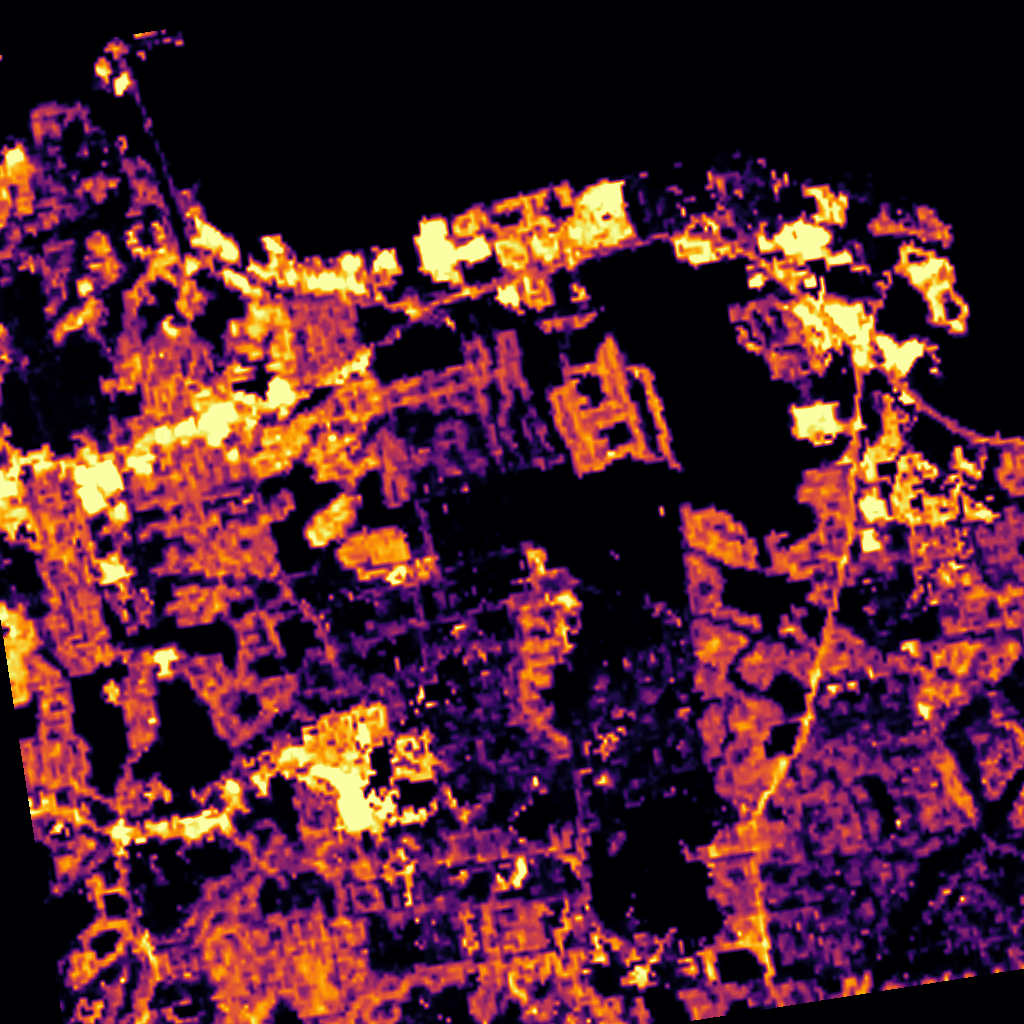
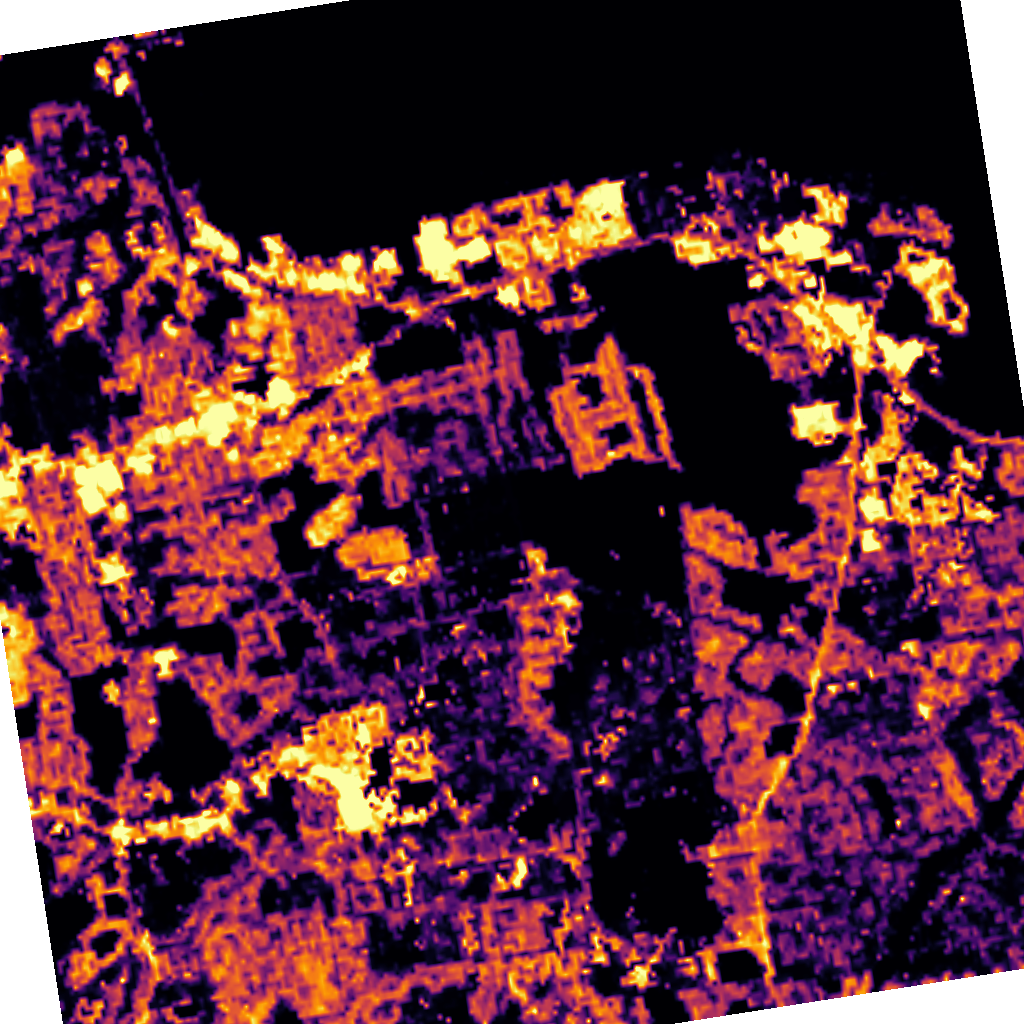
hydro: cover the domain with imagery, and stop painting its gaps black
The aerial drape was 23 % opaque black. Two independent causes, both of which
also cost the segmentation ground it should have seen.

export_overlay reprojected into a zero-filled destination, and zero is a legal
pixel value in every raster here, so "no data reached this pixel" and "this
pixel is black" were indistinguishable. The single-band branch had been fixed
for exactly this and carries a comment about it; the RGB branch never was. The
destination is NaN-filled now and the RGB branch writes RGBA, so uncovered
ground shows the terrain through instead of a black wall. The impervious
overlay turns out to have had 4.3 % of the same problem, below the threshold of
noticing.

fetch.naip sized its mosaic to site.bbox(). The modelled domain is the DEM,
which is the axis-aligned Albers box of that lat/lon request and ~14 % wider
per side; NAIP then ships in UTM, ~8.8 deg rotated from Albers, so the imagery
rectangle could not reach the domain's corners however the numbers were
squared up. It now covers the DEM's own footprint.

Covering a 1.70x larger box at NAIP's native resolution was not shippable: the
2023 survey is 0.3 m, and the merge peaked at 4.8 GB and drove this machine out
of memory. So NAIP_RES_M pins the mosaic at 0.6 m. Nothing downstream wanted
finer -- the drape is downsampled to 256 px and SAM3 tiles by pixel count, so
0.3 m only quadrupled the tiles -- and resampling during the merge is what makes
[…]

diff --git a/models/hydro/fetch.py b/models/hydro/fetch.py
@@ -47,6 +47,17 @@ perfectly good response and silently write a fallback table -- which is the exac
 the provenance field exists to catch.
 """
 
+NAIP_RES_M = 0.6
+"""Ground resolution [m] the NAIP mosaic is built at, PINNED rather than inherited.
+
+NAIP's native resolution improves by survey year -- 0.6 m over this site in 2021, 0.3 m in
+2023 -- so taking whatever the latest year flew makes the fetch cost, and every downstream
+raster's size, drift with the calendar. Nothing here benefits from finer: the viewer drape is
+downsampled to 256 px and the segmentation tiles by pixel count, so 0.3 m only quadruples the
+tiles. Pinning it also keeps this the cheapest thing that covers the domain -- resampling to
+0.6 m during the merge is what makes covering the DEM's full footprint affordable at all.
+"""
+
 HORTON_K_BY_TEXTURE = {
     "sand": 1.5, "loamy sand": 1.8, "sandy loam": 2.0, "loam": 2.5, "silt loam": 3.0,
     "silt": 3.0, "sandy clay loam": 3.5, "clay loam": 4.0, "silty clay loam": 4.0,
@@ -368,12 +379,12 @@ def nlcd(site: SiteConfig) -> None:
 
 
 def naip(site: SiteConfig) -> Optional[str]:
-    """NAIP aerial imagery, mosaicked, via the Planetary Computer STAC API.
+    """NAIP aerial imagery at `NAIP_RES_M`, mosaicked, via the Planetary Computer STAC API.
 
-    The most recent year available is taken, so the ground resolution is whatever NAIP flew last
-    and improves over time: 0.6 m over this site in 2021, 0.3 m in 2023. That is a 965 MB mosaic
-    built in memory by `merge`, ~18 minutes and ~2.7 GB of RSS for a 6 km box -- by far the most
-    expensive fetch here, and the reason this one is worth running last.
+    Covers the DEM's own footprint, not `site.bbox()`. The modelled domain is the DEM, which is
+    the axis-aligned Albers box of the lat/lon request and so ~14 % wider per side; sizing the
+    mosaic to the smaller box left the corners of every downstream product without imagery --
+    an opaque black drape in the viewer and, worse, ground the segmentation never saw.
 
     Feeds the surface parameterisation and the viewer's aerial drape; the solver never reads it.
 
@@ -386,19 +397,41 @@ def naip(site: SiteConfig) -> Optional[str]:
     from rasterio.merge import merge
     from rasterio.warp import transform_bounds
 
+    # Cover the DEM, not `site.bbox()`. The modelled domain is the DEM's own footprint, which is
+    # the axis-aligned Albers box of the lat/lon request and so is ~14 % wider per side; sizing
+    # the mosaic to the smaller box left the corners of every downstream product without
+    # imagery -- a black drape in the viewer and, worse, ground the segmentation never saw.
+    box_crs, box = "epsg:4326", site.bbox()
+    if site.dem.exists():
+        with rasterio.open(site.dem) as dem:
+            b, box_crs = dem.bounds, dem.crs
+        left, right = sorted((b.left, b.right))
+        bottom, top = sorted((b.bottom, b.top))
+        box = (left, bottom, right, top)
+
     catalog = pystac_client.Client.open(PC_STAC_URL, modifier=planetary_computer.sign_inplace)
-    items = list(catalog.search(collections=["naip"], bbox=site.bbox()).items())
+    search_bbox = transform_bounds(box_crs, "epsg:4326", *box)
+    items = list(catalog.search(collections=["naip"], bbox=search_bbox).items())
     if not items:
         return None
     year = max(i.properties["datetime"][:4] for i in items)
     latest = [i for i in items if i.properties["datetime"][:4] == year]
 
-    srcs = [rasterio.open(i.assets["image"].href) for i in latest]
-    # merge() interprets `bounds` in the SOURCE crs. NAIP ships in UTM, so handing it the site's
-    # WGS84 box silently intersects to nothing and rasterio then refuses to write a 0x0 raster.
-    bounds = transform_bounds("epsg:4326", srcs[0].crs, *site.bbox())
-    mosaic, transform = merge(srcs, bounds=bounds)
-    profile = srcs[0].profile.copy()
+    # Every other fetch here goes through `_get`, which has a timeout and backoff. This one
+    # reads COGs through GDAL instead, and GDAL will wait on a stalled socket forever: one run
+    # sat 25 minutes on a single open connection with the CPU clock frozen. Bound it.
+    with rasterio.Env(GDAL_HTTP_TIMEOUT=60, GDAL_HTTP_MAX_RETRY=3, GDAL_HTTP_RETRY_DELAY=2):
+        srcs = [rasterio.open(i.assets["image"].href) for i in latest]
+        try:
+            # merge() interprets `bounds` in the SOURCE crs. NAIP ships in UTM, so handing it a
+            # WGS84 box silently intersects to nothing and rasterio refuses to write a 0x0 raster.
+            mosaic, transform = merge(srcs, res=NAIP_RES_M,
+                                      bounds=transform_bounds(box_crs, srcs[0].crs, *box))
+            profile = srcs[0].profile.copy()
+        finally:
+            for src in srcs:
+                src.close()
+
     profile.update(height=mosaic.shape[1], width=mosaic.shape[2],
                    transform=transform, count=3, compress="deflate")
     with rasterio.open(site.naip_rgb, "w", **profile) as dst:
@@ -407,8 +440,6 @@ def naip(site: SiteConfig) -> Optional[str]:
         profile.update(count=1)
         with rasterio.open(site.naip_nir, "w", **profile) as dst:
             dst.write(mosaic[3:4])
-    for s in srcs:
-        s.close()
     return year
 
 

diff --git a/models/hydro/viewer/export.py b/models/hydro/viewer/export.py
@@ -157,18 +157,29 @@ def export_overlay(site: SiteConfig, name: str, source: Path, cmap: str = "virid
         bottom, top = sorted([ref.bounds.bottom, ref.bounds.top])
         dst_crs, dst_tf = ref.crs, from_bounds(left, bottom, right, top, size, size)
 
+    # NaN, not zero, is the "nothing reprojected here" sentinel. Zero is a legal pixel value in
+    # every one of these rasters, so a zero-filled destination cannot be told apart from real
+    # data -- which is how the aerial drape came to paint 23 % of the domain opaque black.
     with rasterio.open(source) as src:
         bands = min(src.count, 3)
-        out = np.zeros((bands, size, size), dtype=np.float32)
+        out = np.full((bands, size, size), np.nan, dtype=np.float32)
         for b in range(bands):
             reproject(src.read(b + 1).astype(np.float32), out[b],
                       src_transform=src.transform, src_crs=src.crs,
+                      src_nodata=src.nodata, dst_nodata=np.nan,
                       dst_transform=dst_tf, dst_crs=dst_crs, resampling=Resampling.bilinear)
 
     path = _data_dir(site) / f"{name}.png"
     if bands == 3:
+        # Alpha, not black. NAIP ships in UTM and the DEM is in Albers, ~8.8 deg apart at this
+        # longitude, so the imagery rectangle does not reach the domain's corners however large
+        # the mosaic is. Uncovered ground must show the terrain through, not a black wall.
         rgb = np.moveaxis(out, 0, -1)
-        plt.imsave(path, np.clip(rgb / max(float(rgb.max()), 1e-6), 0, 1))
+        covered = np.isfinite(rgb).all(axis=-1)
+        rgba = np.zeros((size, size, 4), dtype=np.float32)
+        rgba[..., :3] = np.clip(np.nan_to_num(rgb) / max(float(np.nanmax(rgb)), 1e-6), 0.0, 1.0)
+        rgba[..., 3] = covered
+        plt.imsave(path, rgba)
         return name
 
     a = out[0]

diff --git a/models/hydro/tests/test_repo.py b/models/hydro/tests/test_repo.py
@@ -6,6 +6,7 @@ failure is something a first-time reader would hit within a minute of cloning.
 
 from pathlib import Path
 
+import numpy as np
 import pytest
 
 ROOT = Path(__file__).resolve().parents[1]
@@ -74,6 +75,25 @@ def test_no_fetched_file_is_a_symlink():
     assert not links, (
         f"symlinked into this tree rather than fetched: {links}. Nothing here is reproducible "
         f"from a coordinate while these exist -- delete them and run `python3 cli.py fetch`.")
+
+
+def test_no_committed_overlay_paints_the_terrain_black():
+    """A draped overlay must show terrain through its gaps, not cover them.
+
+    The RGB branch of `export_overlay` wrote no alpha, so wherever the source raster did not
+    reach it emitted opaque black -- 23 % of the aerial drape, because NAIP ships in UTM and the
+    DEM is in Albers, ~8.8 deg apart, and the imagery rectangle cannot reach the domain's
+    corners. It reads as burnt ground rather than as missing data, and the earlier check for it
+    measured the opaque FRACTION, where 100 % is the symptom and not the reassurance.
+    """
+    from PIL import Image
+
+    for png in sorted((ROOT / "viewer" / "data").rglob("*.png")):
+        a = np.asarray(Image.open(png).convert("RGBA"))
+        opaque_black = ((a[..., :3].sum(axis=2) == 0) & (a[..., 3] > 0)).mean()
+        assert opaque_black < 0.02, (
+            f"{png.relative_to(ROOT)} is {opaque_black:.1%} opaque black -- uncovered ground "
+            f"must be transparent so the terrain shows through")
 
 
 def test_the_readme_test_count_is_current():

diff --git a/models/hydro/surface.py b/models/hydro/surface.py
@@ -2,8 +2,8 @@
 
 Shallow-water solvers are portable; their parameters are not. Roughness, infiltration capacity
 and storage normally come from SSURGO and NLCD, which exist in a handful of countries. This
-module derives the same fields from open-vocabulary segmentation of aerial imagery, which is
-the part that could run anywhere. The canopy-height model that produced the channel finding
+module derives the same fields from open-vocabulary segmentation of 0.6 m aerial imagery,
+which is the part that could run anywhere. The canopy-height model that produced the channel finding
 below is not shipped here; it was a LiDAR-derived raster built during the investigation, and the
 rule it justified survives it.
 
@@ -221,9 +221,9 @@ def summary(fields: Dict[str, np.ndarray], scalar_manning_n: float = 0.040) -> D
 
 MODEL_ID = "facebook/sam3"
 TILE_PX = 1024
-"""SAM3's native working resolution, in PIXELS -- the ground footprint follows the imagery.
-NAIP over this site was 0.6 m in 2021 (~614 m per tile) and 0.3 m in 2023 (~307 m, so 4x the
-tiles). `fetch.naip` takes the latest year, so this is not a fixed scale."""
+"""SAM3's native working resolution. On the 0.6 m mosaic `fetch.NAIP_RES_M` pins, that is
+~614 m of ground per tile -- fixed, because the fetch resamples rather than inheriting whatever
+resolution NAIP last flew."""
 
 OVERLAP_PX = 128
 SCORE_THRESHOLD = 0.35

diff --git a/models/hydro/viewer/server.py b/models/hydro/viewer/server.py
@@ -16,7 +16,7 @@ from sites import SiteConfig, get_site
 BASE = Path(__file__).resolve().parent
 
 LAYERS = [
-    {"id": "naip", "label": "NAIP aerial, 0.6 m", "file": "naip.png", "kind": "drape"},
+    {"id": "naip", "label": "NAIP aerial imagery", "file": "naip.png", "kind": "drape"},
     {"id": "hand", "label": "Height above nearest drainage", "file": "hand.png", "kind": "drape"},
     {"id": "impervious", "label": "NLCD impervious surface", "file": "impervious.png",
      "kind": "drape"},

diff --git a/models/hydro/sites.py b/models/hydro/sites.py
@@ -247,7 +247,7 @@ class SiteConfig:
     # Surface parameterisation
     @property
     def landcover(self) -> Path:
-        return self.path("surface", "landcover_0.6m.tif")
+        return self.path("surface", "landcover.tif")
 
     @property
     def manning_n(self) -> Path:

diff --git a/models/hydro/README.md b/models/hydro/README.md
@@ -33,10 +33,6 @@ Both numbers survive a change of grid. At the 5 m production grid the runoff coe
 run is shipped as an artefact; the 5 m figures quoted here and below are from a production run
 that takes ~15 hours to reproduce. Flood *extent* does not transfer that way; see Limitations.
 
-`fetch` takes the most recent NAIP year available, so its ground resolution improves over
-time — 0.6 m for this site in 2021, 0.3 m in 2023, which is a 965 MB mosaic and ~18 minutes of
-the fetch. Nothing downstream assumes a resolution; the segmentation tiles by pixel count.
-
 **Timing is effectively solved. Magnitude is not, and is stated as an open problem.** Seven
 mechanisms have been tested and none closes it: roughness by three independent methods, soil
 storage capacity, infiltration access, capacity and access combined, domain-versus-watershed
@@ -55,7 +51,7 @@ produces.)
 
 ```
 coordinate
-  ├── fetch      3DEP DEM · SSURGO soils · NLCD impervious · NAIP · 3DHP hydrography
+  ├── fetch      3DEP DEM · SSURGO soils · NLCD impervious · NAIP 0.6 m · 3DHP hydrography
   │              FEMA NFHL · OSM roads+buildings · ASOS rainfall · NWIS discharge · Atlas 14
   ├── terrain    stream burn → depression breach → D8 → accumulation → HAND → watershed
   ├── segment    SAM3 open-vocabulary classes → Manning's n, impervious fraction   (optional)
@@ -72,7 +68,7 @@ channel network the storm fills; grey is where D8 could not resolve drainage at 
 
 **Parameters, not solvers, are what stop flood twins being deployable anywhere.** Shallow-water
 solvers are mature and portable; roughness, infiltration capacity and storage come from national
-surveys that exist in a handful of countries. `surface.py` derives them instead from aerial
+surveys that exist in a handful of countries. `surface.py` derives them instead from 0.6 m
 imagery. The vision route reproduces the soil survey's basin
 water budget to within 0.6 % while sharing almost no spatial structure with it — it agrees on how
 much water the basin sheds and disagrees on where.
@@ -90,7 +86,7 @@ structural: a mapped feature outranks a spectral inference, extended to hydrogra
 cd models/hydro
 python3 -m pip install --user -r requirements.txt
 
-python3 cli.py fetch    --site site3 --storm ian   # ~20 min; NAIP is nearly all of it
+python3 cli.py fetch    --site site3 --storm ian   # ~15 min; NAIP is nearly all of it
 python3 cli.py terrain  --site site3
 python3 cli.py simulate --site site3 --storm ian --cell-size 25   # ~6 min; 5 m is ~15 h
 python3 cli.py validate --site site3 --storm ian --cell-size 25
@@ -104,7 +100,7 @@ after a re-run: it is what keeps the committed payload from drifting away from t
 derived from.
 
 ```bash
-python3 -m pytest         # 106 tests, ~10 s, no network and no site data
+python3 -m pytest         # 107 tests, ~10 s, no network and no site data
 ```
 
 This was rewritten from an older implementation, so it is held to that one numerically.
